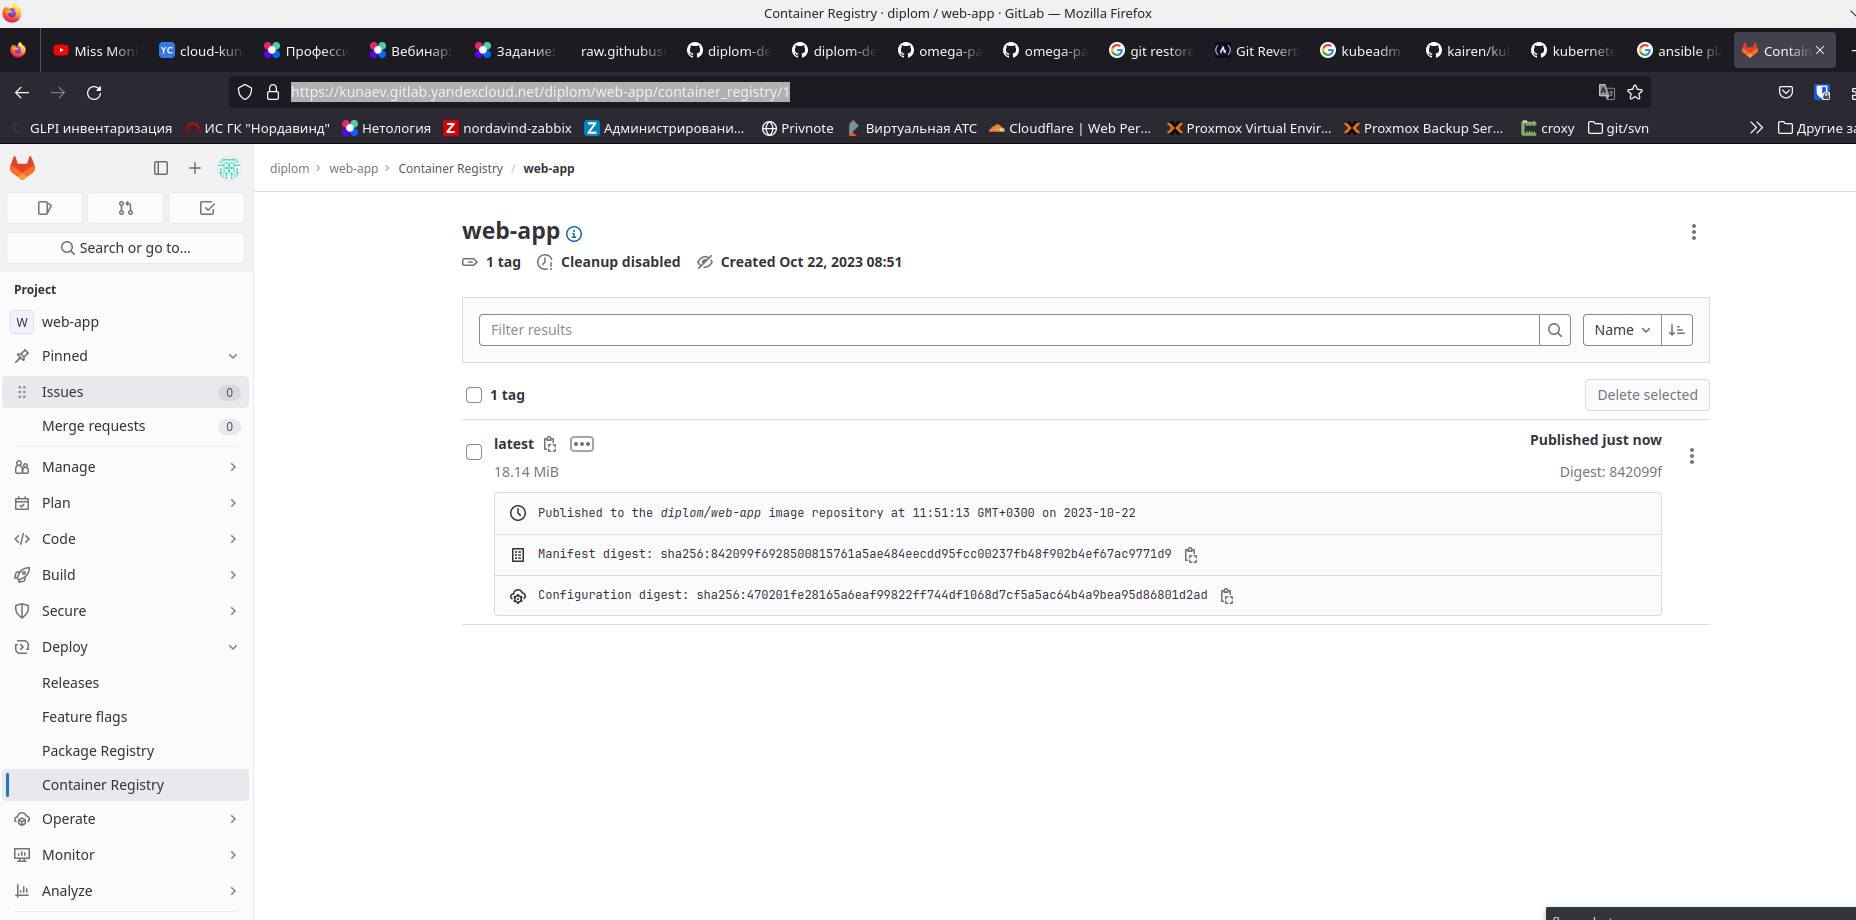
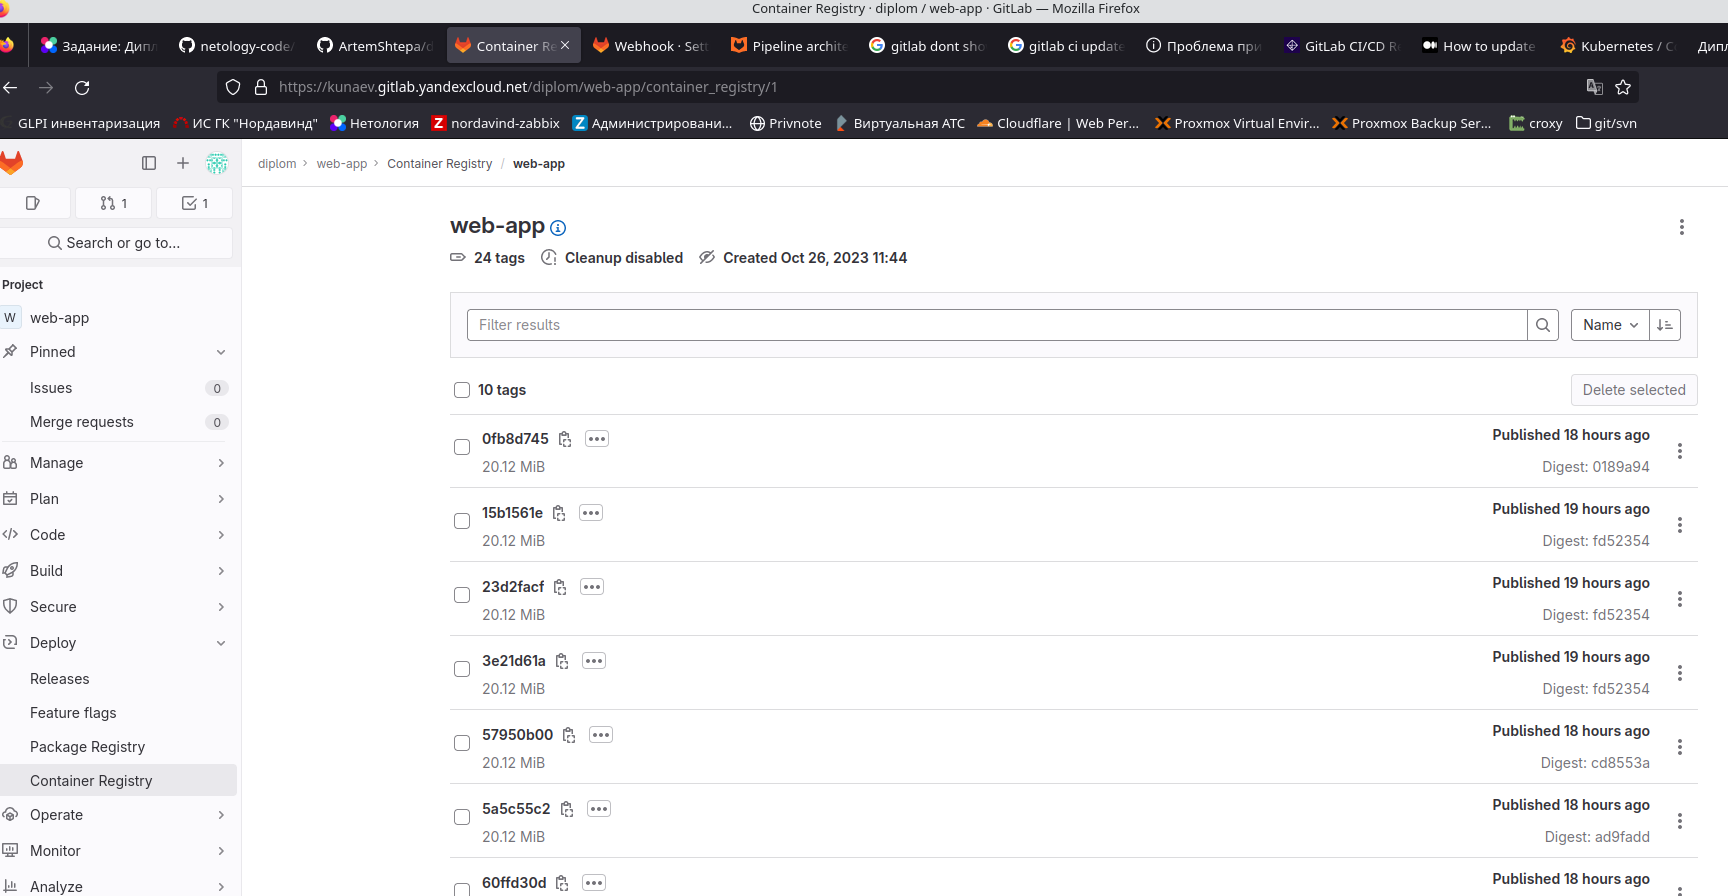
well done

diff --git a/README.md b/README.md
@@ -65,15 +65,19 @@ kunaev@dub-ws-235:~/projects/netology-dev-diplom/tf$ terraform workspace list
    а. При помощи Terraform подготовить как минимум 3 виртуальных машины Compute Cloud для создания Kubernetes-кластера. Тип виртуальной машины следует выбрать самостоятельно с учётом требовании к производительности и стоимости. Если в дальнейшем поймете, что необходимо сменить тип инстанса, используйте Terraform для внесения изменений.  
 
 Подготовкл [tf манифесты](tf), а именно:
-* Создание подсетей (с учетом различных workspac-ов)
-* Создание шаблонного модуля для более комфортной генерации групп инстансов
-* Создал 2 группы wokers и control plane с динамической конфигурацией инвентори файла
-* Настоил LB и группу безопасности
+* Создание подсетей (с учетом различных workspace-ов)
+* Создание [шаблонного модуля](tf/vm_template/) для более комфортной генерации групп инстансов
+* Создал 2 группы [wokers и control plane](tf/k8s_cluster.tf) с динамической конфигурацией инвентори файла
 
+![Alt text](image-3.png)
 
-   б. Подготовить [ansible](https://www.ansible.com/) конфигурации, можно воспользоваться, например [Kubespray](https://kubernetes.io/docs/setup/production-environment/tools/kubespray/)  
+* Настоил [группу безопасности](tf/security_groups.tf)
 
-    Установил все это дело через [kubespray](ansible/kubespray/)
+![Alt text](image-4.png)
+
+б. Подготовить ansible конфигурации, можно воспользоваться, например Kubespray.
+
+   Настроил установку кластера кубера через [ansible](ansible) с ипользованием [kubeadm](ansible/main_playbook.yaml).
 
    в. Задеплоить Kubernetes на подготовленные ранее инстансы, в случае нехватки каких-либо ресурсов вы всегда можете создать их при помощи Terraform.
 
@@ -81,9 +85,14 @@ kunaev@dub-ws-235:~/projects/netology-dev-diplom/tf$ terraform workspace list
 
 1. Работоспособный Kubernetes кластер.
 2. В файле `~/.kube/config` находятся данные для доступа к кластеру.
+      - пробросил конфигу на localhost также через [ансибл](ansible/2_configure_cluster.yaml/)
+  
+![Alt text](image-6.png)
+
 3. Команда `kubectl get pods --all-namespaces` отрабатывает без ошибок.
 
-![Alt text](image-3.png)
+![Alt text](image-5.png)
+
 
 ---
 
@@ -122,16 +131,137 @@ kunaev@dub-ws-235:~/projects/netology-dev-diplom/tf$ terraform workspace list
 Теперь необходимо подготовить конфигурационные файлы для настройки нашего Kubernetes кластера.
 
 Цель:
-1. Задеплоить в кластер [prometheus](https://prometheus.io/), [grafana](https://grafana.com/), [alertmanager](https://github.com/prometheus/alertmanager), [экспортер](https://github.com/prometheus/node_exporter) основных метрик Kubernetes.
+1. Задеплоить в кластер prometheus, grafana, alertmanager, экспортер основных метрик Kubernetes.
+
+Установил стек мониторинга из helm и пробросил порты через [NodePort](k8s_manifests/grafana_service.yaml)
+
+![Alt text](image-7.png)
+
 2. Задеплоить тестовое приложение, например, [nginx](https://www.nginx.com/) сервер отдающий статическую страницу.
 
-Способ выполнения:
-1. Воспользовать пакетом [kube-prometheus](https://github.com/prometheus-operator/kube-prometheus), который уже включает в себя [Kubernetes оператор](https://operatorhub.io/) для [grafana](https://grafana.com/), [prometheus](https://prometheus.io/), [alertmanager](https://github.com/prometheus/alertmanager) и [node_exporter](https://github.com/prometheus/node_exporter). При желании можете собрать все эти приложения отдельно.
-2. Для организации конфигурации использовать [qbec](https://qbec.io/), основанный на [jsonnet](https://jsonnet.org/). Обратите внимание на имеющиеся функции для интеграции helm конфигов и [helm charts](https://helm.sh/)
-3. Если на первом этапе вы не воспользовались [Terraform Cloud](https://app.terraform.io/), то задеплойте и настройте в кластере [atlantis](https://www.runatlantis.io/) для отслеживания изменений инфраструктуры. Альтернативный вариант 3 задания: вместо Terraform Cloud или atlantis настройте на автоматический запуск и применение конфигурации terraform из вашего git-репозитория в выбранной вами CI-CD системе при любом комите.
+
+Настроил gitlab runner в режиме shell executor, а также написал пайплайн, создающий deployment или обновляющий имеющйся image
+
+http://158.160.13.38:32100/
+
 
 Ожидаемый результат:
 1. Git репозиторий с конфигурационными файлами для настройки Kubernetes.
+
+На [гитхабе](https://github.com/nkunaev/netology-dev-diplom)  
+На managed [gitlab](https://kunaev.gitlab.yandexcloud.net/diplom/diplom_repo) - тут прикручен атлантис
+
 2. Http доступ к web интерфейсу grafana.
+
+http://158.160.13.38:32000/
+
 3. Дашборды в grafana отображающие состояние Kubernetes кластера.
+
+![Alt text](image-8.png)
+
+![Alt text](image-9.png)
+
 4. Http доступ к тестовому приложению.
+
+http://158.160.13.38:32100/
+
+
+### Установка и настройка CI/CD
+
+Осталось настроить ci/cd систему для автоматической сборки docker image и деплоя приложения при изменении кода.
+
+Цель:
+
+1. Автоматическая сборка docker образа при коммите в репозиторий с тестовым приложением.
+2. Автоматический деплой нового docker образа.
+
+
+Как написал выше - я создал managed gitlab на YC
+
+Ожидаемый результат:
+
+1. Интерфейс ci/cd сервиса доступен по http.
+
+https://kunaev.gitlab.yandexcloud.net
+
+![Alt text](image-10.png)
+
+2. При любом коммите в репозиторие с тестовым приложением происходит сборка и отправка в регистр Docker образа.
+
+![Alt text](image-11.png)
+
+Сам pipeline [тут](wep-app/.gitlab-ci.yml) 
+
+3. При создании тега (например, v1.0.0) происходит сборка и отправка с соответствующим label в регистри, а также деплой соответствующего Docker образа в кластер Kubernetes.
+
+проверка проходит по регулярному выражению в соответствии с SimVer
+```
+if: $CI_COMMIT_TAG =~ /^v[0-9]+\.[0-9]+(\.[0-9]+|)$/
+```
+Если условие удовлетворяется, то происходит сборка image которому назначается тег в виде версии.
+
+Далее происходит деплой в кубер, при этом стоит между коммандами стоит выражение или(||), чтобы если приходит новая сборка, что в deployment'e менялся image
+
+```
+    - kubectl create deployment $CI_PROJECT_TITLE --image=$CI_REGISTRY_IMAGE:$CI_COMMIT_TAG || kubectl set image deployment $CI_PROJECT_TITLE *=$CI_REGISTRY_IMAGE:$CI_COMMIT_TAG --namespace default
+
+```
+
+![Alt text](image-12.png)
+
+
+## Что необходимо для сдачи задания?
+
+1. Репозиторий с конфигурационными файлами Terraform и готовность продемонстрировать создание всех ресурсов с нуля.
+
+На [гитхабе](https://github.com/nkunaev/netology-dev-diplom)  
+На managed [gitlab](https://kunaev.gitlab.yandexcloud.net/diplom/diplom_repo) 
+
+2. Пример pull request с комментариями созданными atlantis'ом или снимки экрана из Terraform Cloud или вашего CI-CD-terraform pipeline.
+
+Настройка web-hook'a в проекте:
+![](image-14.png)
+
+Мой [workflow](atlantis/instruction.txt) по настройке Атлантиса 
+
+Коммент атлантиса к pull request
+
+![Alt text](image-15.png)
+
+3. Репозиторий с конфигурацией ansible, если был выбран способ создания Kubernetes кластера при помощи ansible.
+
+Плейбуки [тут](ansible) 
+
+4. Репозиторий с Dockerfile тестового приложения и ссылка на собранный docker image.
+
+kunaev.gitlab.yandexcloud.net:5050/diplom/web-app:0fb8d745
+
+
+![Alt text](image-13.png)
+
+5. Репозиторий с конфигурацией Kubernetes кластера.
+
+Большая часть настроек осуществлялась через [ansible](ansible), манифесты сервисов и секретов [тут](k8s_manifests)  
+
+6. Ссылка на тестовое приложение и веб интерфейс Grafana с данными доступа.
+
+### Grafana 
+http://158.160.13.38:32000
+
+login: viewer
+pass: ASDfnksdf78123!
+
+### web-app
+
+http://158.160.13.38:32100/
+
+
+7. Все репозитории рекомендуется хранить на одном ресурсе (github, gitlab)
+
+Managed Gitlab
+
+https://kunaev.gitlab.yandexcloud.net/
+
+login: viewer
+pass: ASDfnksdf78123!
+
